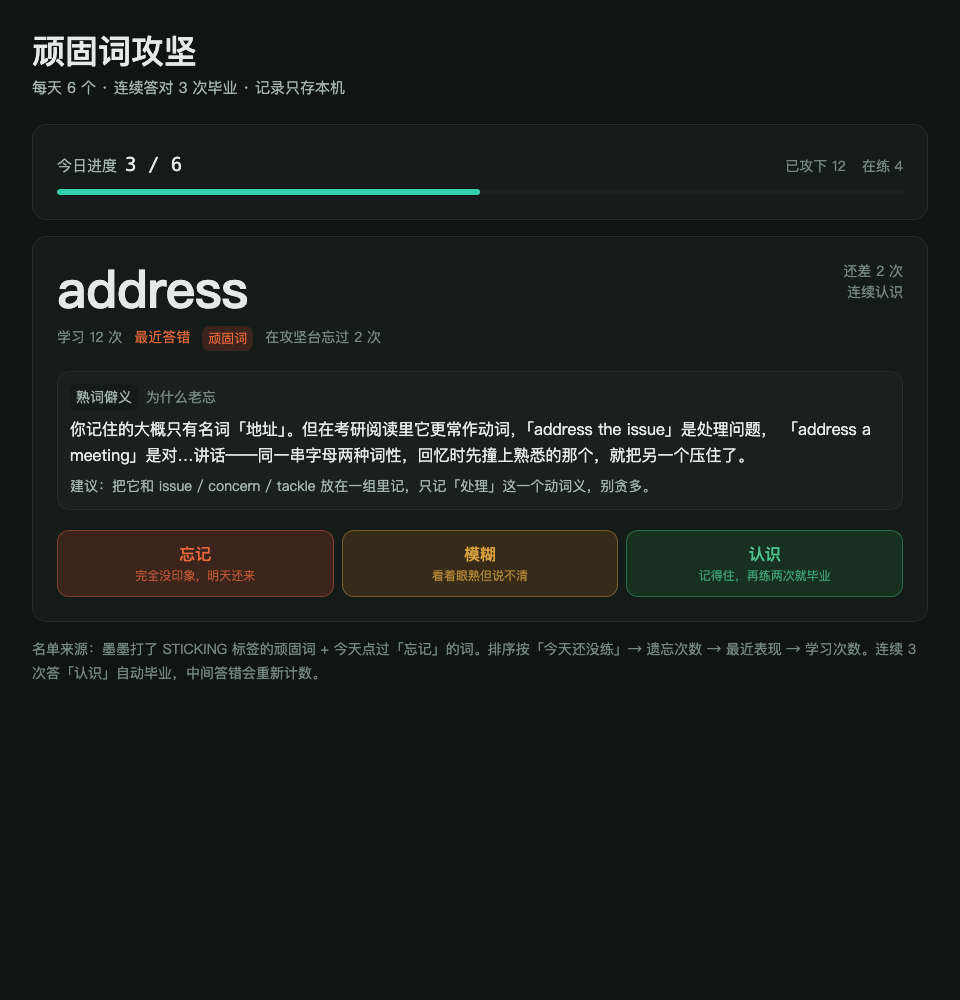
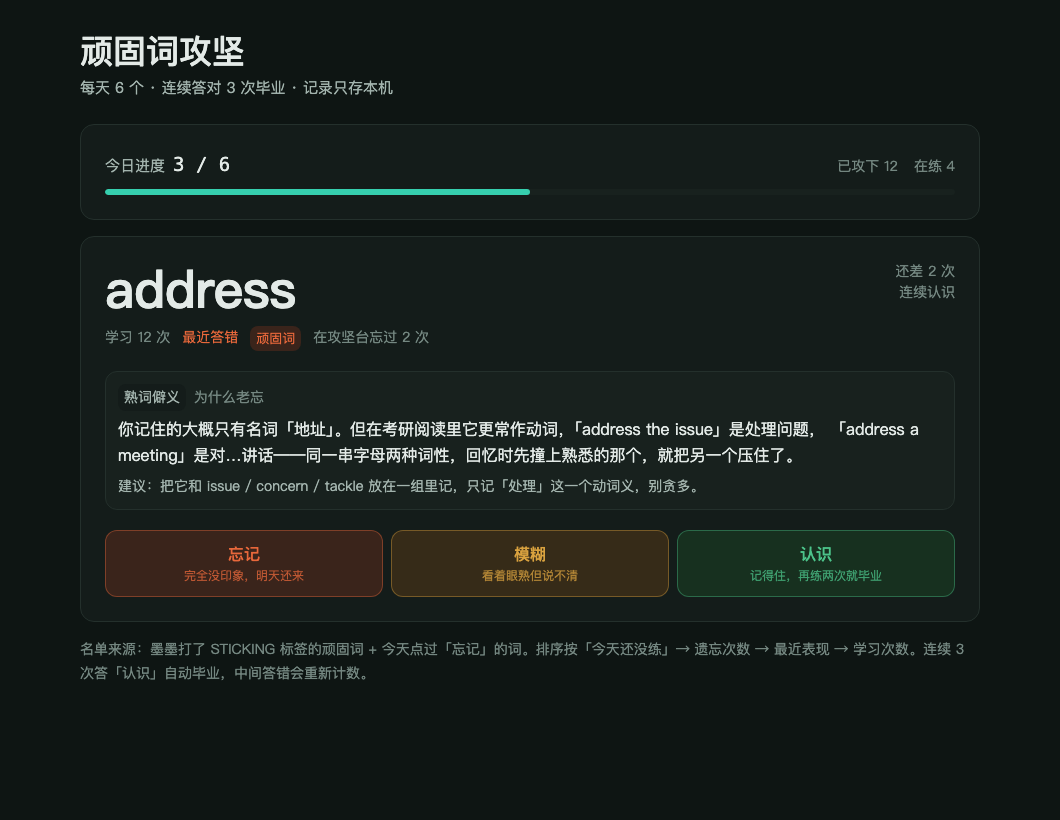
docs: README 配图统一为桌面端，并规整为同一比例
- 设置页原来是手机截图（780×1688），换成 1440×900 桌面版，顺带把完整的
  十项侧栏也带进画面
- plan / drill 重截为 1060×820：原来一张 1400 高、一张接近方形，放进 2×2
  表格后第一行高度差太大，视觉上很散
- README 图注随图片同步调整

代价：plan 图裁掉了底部的「要注意的」风险提示区，保留了倒计时卡与负荷日历
两块主体。

diff --git a/README.md b/README.md
@@ -38,11 +38,11 @@
 </tr>
 <tr>
 <td><img src="docs/screenshots/heatmap.png" alt="学习热力图"></td>
-<td><img src="docs/screenshots/settings-mobile.png" alt="设置页"></td>
+<td><img src="docs/screenshots/settings.png" alt="设置页"></td>
 </tr>
 <tr>
 <td><b>学习热力图</b><br>365 天的积累，鼠标扫过任意一格看当天学了多少。</td>
-<td><b>设置</b><br>墨墨 Token 与 AI Key 都只存在本机，不经过任何服务器。</td>
+<td><b>设置</b><br>绑定墨墨 Token 与 AI Key，两者都只存在本机。左侧是完整的十个页面。</td>
 </tr>
 </table>
 
